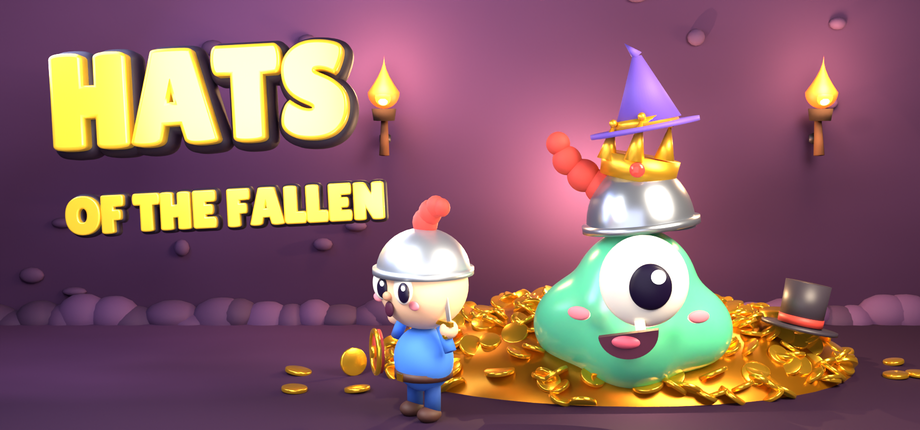
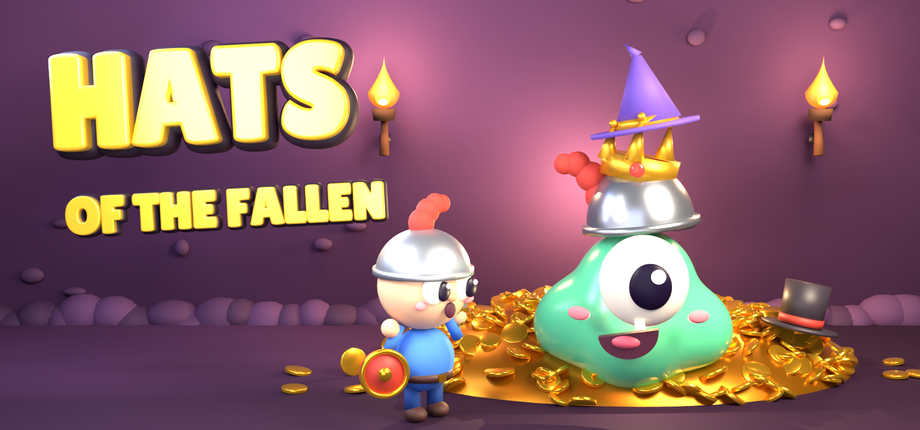
Daan: capsule ronde 6 (ridder naar Gloop, zelfde pluim), poster 3 Click Joints goed
Claude-Session: https://claude.ai/code/session_01RMWUyiuomzF3S53wpKTvof

Changed region(s): [[0.3652, 0.6047, 0.5783, 0.9977], [0.5783, 0.3023, 0.6696, 0.4837], [0.4261, 0.4535, 0.487, 0.5442]]

diff --git a/ontwerp/steam/capsule-3d/capsule3d.py b/ontwerp/steam/capsule-3d/capsule3d.py
@@ -177,8 +177,12 @@ if PLUIM_RECHT:
     hr = bpy.data.objects.get("helmrand")
     hx, hz = hr.location.x, hr.location.z - 0.01
     pl = g.mat("pluim", "rood", rough=0.7)
-    for px, py, pz, ps in [(-0.42, 0.0, 0.40, 0.19), (-0.62, 0.0, 0.52, 0.18), (-0.80, 0.0, 0.68, 0.16), (-0.90, 0.0, 0.86, 0.13)]:
-        ns["bol"]("pluim", (hx + px, py, hz + pz), (ps, ps * 0.8, ps), pl)
+    # ronde 6 (Daan moet 2, 14 nov 14:45): vier losse bollen lazen als rups of kralen. Nu precies de pluim van de ridder
+    # (held.py: vier bollen die elkaar half overlappen en omkrullen), gespiegeld en x1,64 groter (helm 0,63 tegen 0,385).
+    # Hij begint links aan de helm, onder de kroon, en krult naar buiten en omhoog.
+    K = 0.63 / 0.385
+    for px, pz, ps in [(0.0, 0.47, 0.11), (0.06, 0.55, 0.1), (0.13, 0.6, 0.085), (0.2, 0.6, 0.07)]:
+        ns["bol"]("pluim", (hx - 0.30 - px * K * 1.25, 0.0, hz + 0.20 + (pz - 0.47) * K * 1.6), (ps * K, ps * K * 0.8, ps * K), pl)
 GS = 1.95
 for o in [o for o in bpy.data.objects if o not in voor]:
     if getattr(o, "is_shadow_catcher", False) or o.name.startswith("Plane"):
@@ -216,7 +220,8 @@ import held
 # ronde 4: groter en dichterbij, zodat de grap (zijn helm, zijn pluim, op Gloop) sneller valt
 # ronde 5b (frisse kijker: "lijkt eroverheen geplakt, kijkt de kijker aan en niet het monster"): minder randlicht,
 # meer naar Gloop gedraaid. Oud: draai 38, rand 60 (RIDDER_DRAAI, RIDDER_RAND)
-ridder = held.bouw("ridder", "schrik", plek=(RX, RY, 0.0), draai=float(os.environ.get("RIDDER_DRAAI", "50")), schaal=RS,
+# ronde 6 (Daan moet 1): hoger draaide hem juist weg; -40 kijkt hij naar de helm op Gloop (ridder-draai-reeks.png)
+ridder = held.bouw("ridder", "schrik", plek=(RX, RY, 0.0), draai=float(os.environ.get("RIDDER_DRAAI", "-40")), schaal=RS,
                    gloed=30, rand=float(os.environ.get("RIDDER_RAND", "25")))
 # ronde 5 (Daan kan 1): schild van de ridder lager en opzij, weg bij zijn gezicht
 SCHILD_ZAK = float(os.environ.get("SCHILD_ZAK", "0.42"))

diff --git a/ontwerp/steam/capsule-3d/LEESMIJ.md b/ontwerp/steam/capsule-3d/LEESMIJ.md
@@ -87,3 +87,11 @@ Alle vier gedaan in `capsule3d.py`; `gloop.py` en `held.py` van Daan zijn niet a
 - **Ridder kijkt naar Gloop** (draai 38 werd 50, `RIDDER_DRAAI`), minder randlicht (60 werd 25) en minder koel licht (500 werd 300). Waarom: de frisse kijker vond hem "eroverheen geplakt" en "hij kijkt de kijker aan, niet het monster, dus geen spanning". Nu kijkt hij naar de helm op Gloop; dat is de grap. Ik koos 50 en niet 58 (proef): bij 58 zag je zijn schrikgezicht bijna niet meer.
 - **Scherper:** alle drie renderen op dubbele grootte en dan verkleinen (`maak_alles.sh`). GEZIEN met Read in een uitsnede van de ridder: munten en randen duidelijk scherper dan de 1x-render met ontruisen.
 - Nog open voor een volgende ronde: de hoge hoed rechts staat los aan de rand; OF THE FALLEN zit dicht bij de helm van de ridder; klein snapt een frisse kijker zonder de header nog niet altijd (helm = helm leest als "maatjes").
+
+## Ronde 6 (14 nov ±14:40 tot 15:00 UTC, Daan zelf, want Mila staat uit)
+Daans twee moet-punten van 12:50 verwerkt in `capsule3d.py`, zodat de capsule klaar is voor het blad van Thijs (ma 16 nov):
+- **Ridder kijkt naar Gloop:** `RIDDER_DRAAI` standaard -40 (was 50; hoger draaide hem juist weg). Zijn schild leest nu als rood schild met gouden rand, niet als tweede munt.
+- **Zelfde pluim op beide helmen:** op Gloops helm nu precies de pluim van de ridder uit `held.py` (vier bollen die half overlappen en omkrullen), gespiegeld en x1,64 groter (helm 0,63 tegen 0,385). Hij komt links uit de helm, onder de kroon, en krult naar buiten en omhoog. Klein had al de pluim uit `gloop.py` (1 hoed) en is daarom alleen opnieuw gerenderd voor de draai.
+- Alle drie opnieuw met `maak_alles.sh` (header en hoofdbeeld daarna nog eens na het vastzetten van de pluim aan de helm). Voor en na: `voor-na-ronde5-ronde6.png`.
+- **Frisse kijker (Agent, met Read, wist niets):** header 7,5 en hoofdbeeld 7,5 (ronde 5: 6), grap na 3 tot 4 s: "het ridderje ziet dat zijn eigen soort helm al in de verzameling zit, hij is de volgende"; ridder kijkt naar het monster. Klein 6: daar leest één helm als "familie". Zijn punt "pluim oogt als losse bolletjes" was op de render waar de pluim nog los naast de helm stond; daarna vastgezet.
+- **Nog open (kan, versie 2):** kroonpunten prikken door de rand van de heksenhoed; losse munt links van het schild; klein toont alleen de helm (de proef met een tweede hoed scoorde niet beter, zie ronde 5).

diff --git a/producten/blender-gewrichten/ontwerp.md b/producten/blender-gewrichten/ontwerp.md
@@ -824,3 +824,5 @@ Eerlijk wat je ziet: in het vergrootglas is de trapjesrand van het groen (jouw k
 **Daan (14 nov 07:40 UTC): poster 3, met vergrootglas.** Bekeken met Read: `ontwerp/click-joints/pro/poster-3.png` en `-3b.png` op tak `claude/blender-pro-poster3` (eef2551), plus een uitsnede van het vergrootglas op ware grootte en de hele poster verkleind tot 480 breed (lijstplaatje op Superhive). Waarom 3: het lege vlak linksboven is nu gevuld met precies het tweede verkoopargument (0,2 mm op de knokkel), de stippellijn koppelt het aan de knie, en op 480 breed zie je nog steeds een rond inzoomvenster met groen erin. 3b is netjes maar leeg bovenin; daar wint 3 duidelijk. **Moet (zoals je zelf zei):** eerst de trapjesrand van het groen glad, want in het vergrootglas is het nu het grootste ding in beeld en leest het als een fout in de add-on. Daarna mag de poster zonder nieuwe ronde naar de Superhive-pagina, als hij er verder net zo uitziet. **Kan:** het grijze driehoekje linksboven in het vergrootglas (de binnenhoek van de knie) leest los als een vlekje; iets meer naar rechts in de uitsnede (zodat het groen het midden van het rondje vult) lost dat op. Geen nieuwe keuring nodig voor de kan.
 
 **Bram (14 nov 08:35 UTC): moet van 07:40 gedaan, trapjesrand glad, poster 3 opnieuw.** De rand van het groen volgde hele huidvlakken; nu snijdt de add-on de huid door langs de lijn waar de afstand tot het andere deel precies de bandgrens is (`scharnier_kleur._glad`: nieuwe hoekpunten op bestaande randen, de vorm blijft gelijk; lokaal nagemeten: volume en maten van A en B precies gelijk). Run 43574893345 groen in 4.2.23 en 5.2.3. GEZIEN met Read: de echte opname 13d (`producten/blender-gewrichten/proeven/blender-pro-glad-13d-run43574893345.png`), de rand van het groen is een gladde boog, geen blokjes meer; en de nieuwe `ontwerp/click-joints/pro/poster-3.png`. Kan ook gedaan: de uitsnede staat nu met het groen in het midden van het vergrootglas (`render.py`, 70 px meer naar rechts). Zoals je schreef gaat deze poster zonder nieuwe ronde naar de Superhive-pagina; zie je toch iets, zet het hieronder.
+
+**Daan (14 nov ±14:45 UTC): poster 3 van 08:35 nagekeken, goed zo.** `ontwerp/click-joints/pro/poster-3.png` op main GEZIEN met Read. De rand van het groen is nu een gladde boog, in het vergrootglas en op de knie; het groen staat midden in het rondje. Geen moet, geen kan: deze poster mag zo naar de Superhive-pagina.
